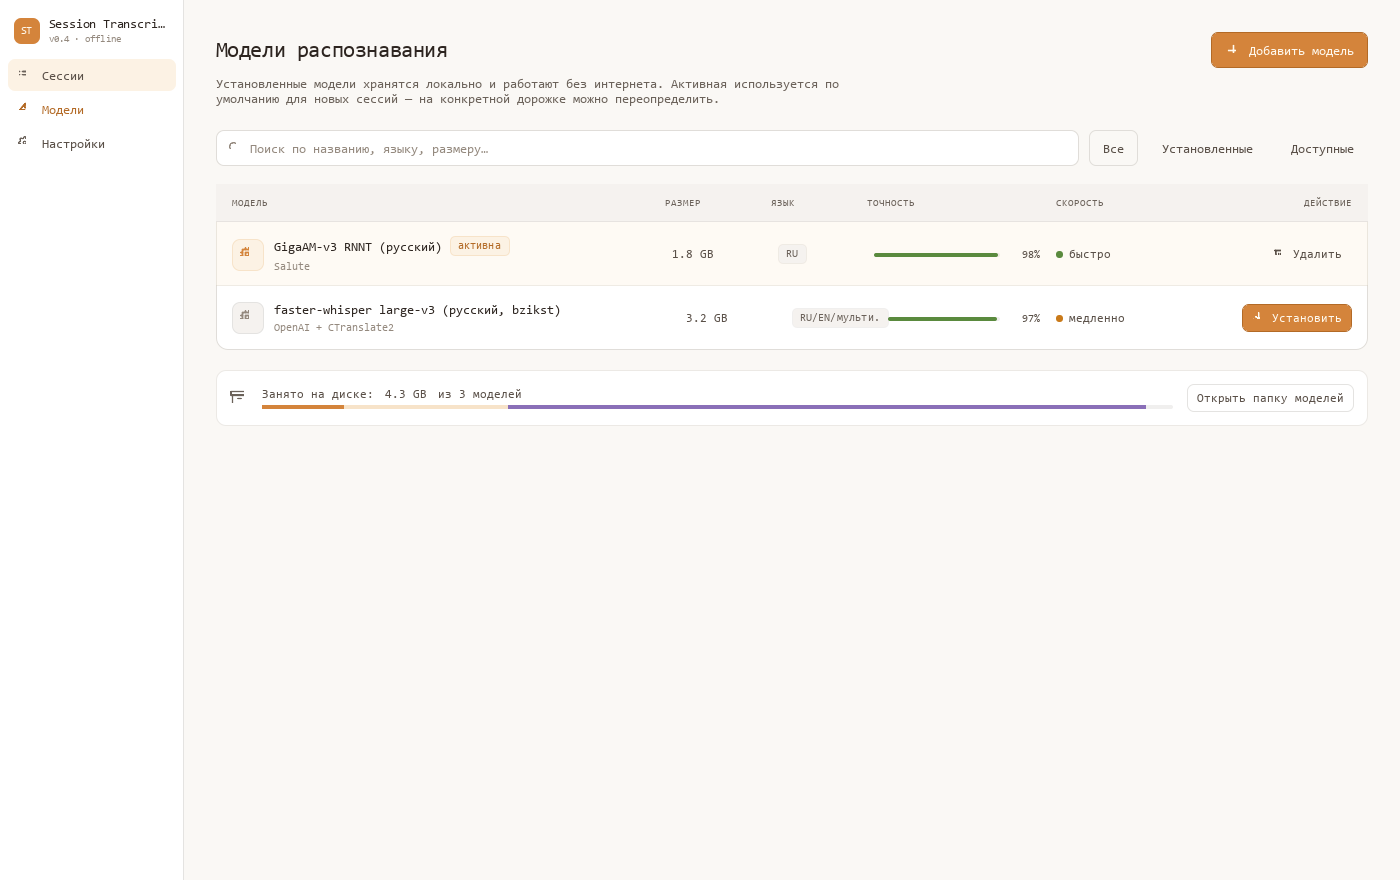
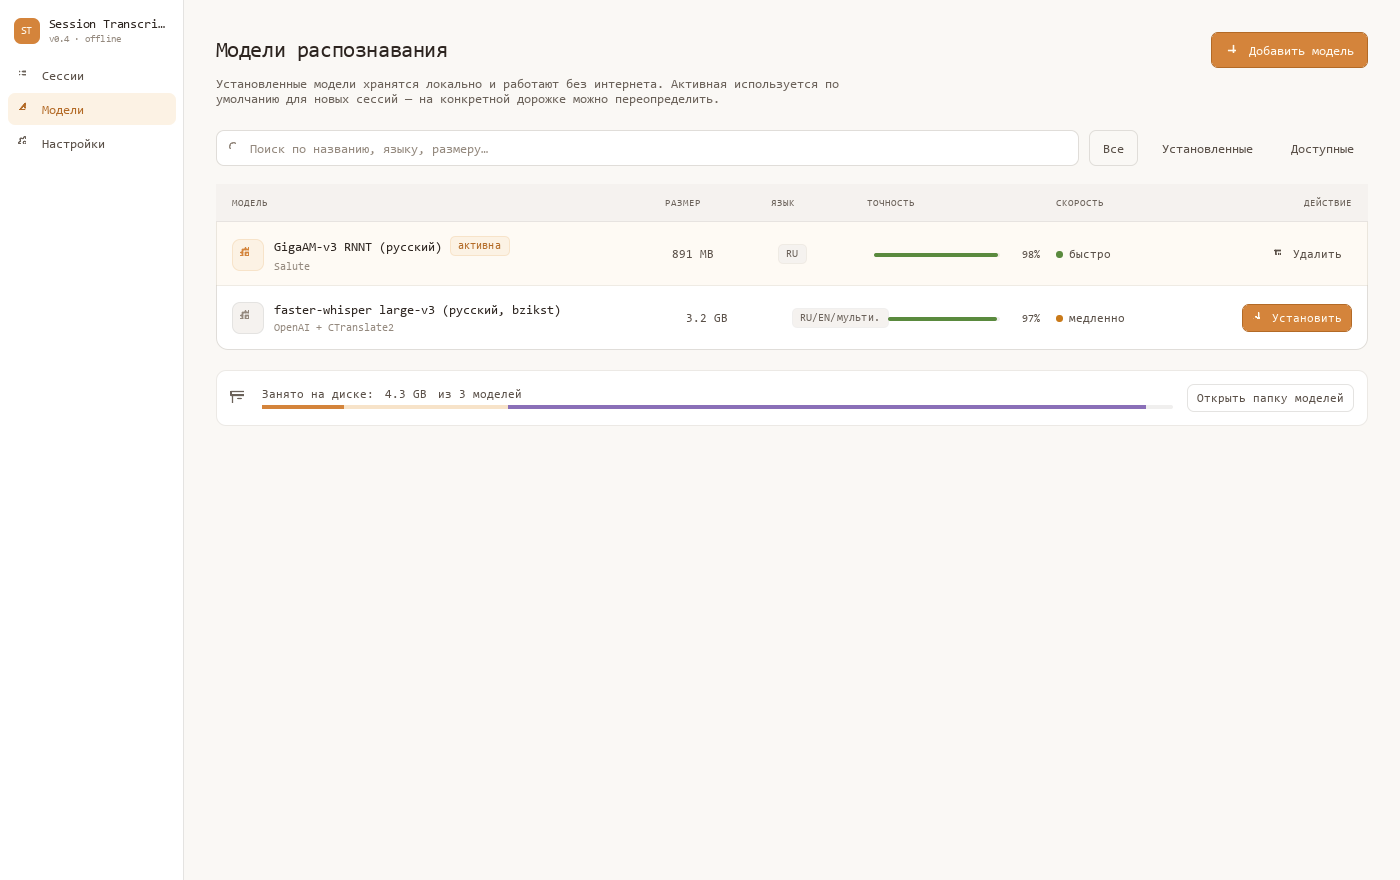
fix(ui): no mock content on launch + install/uninstall feedback
Two user-visible issues resolved:

1. On launch the app landed on the Timeline screen populated with
   prototype mock data (Сессия 14, six named players, fake chat
   logs). User couldn't tell real from mock and asked "is this a
   real app or a mock?". Now:
     * AppModel.screen defaults to "empty"
     * SessionMeta starts with blank title / 0 duration
     * TrackListModel and SourceListModel start with empty _rows
     * SessionMeta.openSession no longer falls back to a 180-min
       placeholder duration — empty folder reads as 0.
   The EmptyScreen is the only thing visible until the user drops
   a session folder. openSession then populates both list models
   via the existing sessionOpened signal → Main.qml flips screen
   to timeline.

2. Clicking "Установить" / "Удалить" kicked off the QThread worker
   but the UI never updated — the row kept showing the same button
   and the user had no feedback. Added transient per-row busy state:
     * ModelRow gains busyKind / busyPct / busyNote properties.
       While non-empty, the action column renders
       "Устанавливается… 47%" with a slim progress bar or
       "Удаляется…" instead of the normal buttons.
     * ModelsScreen owns a busy QtObject (row/kind/pct/note) and
       a Connections block that updates it from
       modelRegistry.installProgress / installFinished / installFailed.
       Click handlers call busy.beginInstall/Uninstall so feedback
[…]

Changed region(s): [[0.0, 0.0614, 0.1229, 0.1534]]

diff --git a/ui/qml/screens/ModelsScreen.qml b/ui/qml/screens/ModelsScreen.qml
@@ -224,6 +224,34 @@ Rectangle {
                             }
                         }
 
+                        // Per-row busy state — keyed by the row index.
+                        // Set from ModelRegistry.installProgress /
+                        // installFinished / installFailed below; read
+                        // by ModelRow delegates via `busyRow` bindings.
+                        QtObject {
+                            id: busy
+                            property int row: -1
+                            property string kind: ""   // "install" | "uninstall"
+                            property int pct: 0
+                            property string note: ""
+
+                            function beginInstall(r)   { row = r; kind = "install";   pct = 0; note = "" }
+                            function beginUninstall(r) { row = r; kind = "uninstall"; pct = 0; note = "" }
+                            function clear()           { row = -1; kind = "";         pct = 0; note = "" }
+                        }
+
+                        Connections {
+                            target: modelRegistry
+                            function onInstallProgress(row, pct, note) {
+                                busy.row = row
+                                busy.kind = busy.kind === "uninstall" ? "uninstall" : "install"
+                                busy.pct = pct
+                                busy.note = note
+                            }
+                            function onInstallFinished(row) { busy.clear() }
+                            function onInstallFailed(row, message) { busy.clear() }
+                        }
+
                         // Rows
                         Repeater {
                             model: modelRegistry
@@ -239,10 +267,19 @@ Rectangle {
                                 installed: model.installed
                                 active: model.active
                                 lastRow: index === modelRegistry.rowCount() - 1
+                                busyKind: busy.row === index ? busy.kind : ""
+                                busyPct:  busy.row === index ? busy.pct  : 0
+                                busyNote: busy.row === index ? busy.note : ""
                                 onRowClicked: drawer.openFor(modelRegistry.entryAt(index))
                                 onActivateClicked: modelRegistry.setActive(index)
-                                onInstallClicked:  modelRegistry.install(index)
-                                onUninstallClicked: modelRegistry.uninstall(index)
+                                onInstallClicked: {
+                                    busy.beginInstall(index)
+                                    modelRegistry.install(index)
+                                }
+                                onUninstallClicked: {
+                                    busy.beginUninstall(index)
+                                    modelRegistry.uninstall(index)
+                                }
                             }
                         }
                     }
@@ -289,14 +326,15 @@ Rectangle {
                                     font.weight: Font.DemiBold
                                 }
                                 Text {
-                                    text: "4.3 GB"
+                                    text: modelRegistry.installedSizeLabel()
                                     color: Theme.ink2
                                     font.family: Theme.fontMono
                                     font.pixelSize: 12
                                     font.weight: Font.DemiBold
                                 }
                                 Text {
-                                    text: " из 3 моделей"
+                                    text: " · " + modelRegistry.installedCount()
+                                          + " из " + modelRegistry.rowCount() + " моделей"
                                     color: Theme.ink2
                                     font.family: Theme.fontSans
                                     font.pixelSize: 12
@@ -305,25 +343,11 @@ Rectangle {
                                 Item { Layout.fillWidth: true }
                             }
 
-                            // Stacked-usage bar: three proportional
-                            // segments drawn side-by-side. Widths come
-                            // from the prototype (9% / 18% / 70%).
-                            Rectangle {
-                                Layout.fillWidth: true
-                                Layout.preferredHeight: 4
-                                radius: 2
-                                color: Theme.borderSoft
-                                clip: true
-
-                                RowLayout {
-                                    anchors.fill: parent
-                                    spacing: 0
-                                    Rectangle { Layout.fillHeight: true; Layout.preferredWidth: parent.width * 0.09; color: Theme.accent }
-                                    Rectangle { Layout.fillHeight: true; Layout.preferredWidth: parent.width * 0.18; color: Theme.accentSoft }
-                                    Rectangle { Layout.fillHeight: true; Layout.preferredWidth: parent.width * 0.70; color: "#8A6FB8" }
-                                    Item      { Layout.fillHeight: true; Layout.fillWidth: true }
-                                }
-                            }
+                            // Per-backend stacked bar removed — the
+                            // 9/18/70 split was hardcoded mock
+                            // proportions. A real stacked view needs
+                            // per-backend size, which is already shown
+                            // in each row's size column.
                         }
 
                         GhostButton {

diff --git a/ui/qml/screens/ModelRow.qml b/ui/qml/screens/ModelRow.qml
@@ -29,6 +29,15 @@ Rectangle {
     property bool active: false
     property bool lastRow: false
 
+    // Transient pipeline state — set from ModelsScreen when the
+    // registry emits installProgress / installFinished / installFailed.
+    // While non-empty, the action column renders a progress label
+    // instead of the normal Install/Activate/Uninstall buttons so the
+    // user has feedback that clicking did something.
+    property string busyKind: ""    // "" | "install" | "uninstall"
+    property int busyPct: 0         // 0..100, only used for install
+    property string busyNote: ""    // free-form ffmpeg/download status
+
     signal rowClicked()
     signal activateClicked()
     signal installClicked()
@@ -155,14 +164,18 @@ Rectangle {
         }
 
         // ── Lang ──────────────────────────────────────────────────
+        // Width widened and Chip anchored left so multi-lang labels
+        // ("RU/EN/мульти.") don't bleed across the accuracy bar.
         Item {
-            Layout.preferredWidth: 80
+            Layout.preferredWidth: 110
             implicitHeight: langChip.implicitHeight
+            clip: true
 
             Chip {
                 id: langChip
                 tone: "neutral"
                 text: root.lang
+                anchors.left: parent.left
                 anchors.verticalCenter: parent.verticalCenter
             }
         }
@@ -226,16 +239,53 @@ Rectangle {
             }
         }
 
-        // ── Action buttons (right-aligned) ────────────────────────
+        // ── Action buttons / busy state (right-aligned) ───────────
         RowLayout {
             Layout.preferredWidth: 170
             spacing: 6
 
             Item { Layout.fillWidth: true }
 
+            // Busy state — replaces the action buttons with a progress
+            // label so the user sees the install / uninstall is in
+            // flight. Earlier versions silently kicked off the worker
+            // thread and the UI looked frozen / no-op.
+            ColumnLayout {
+                visible: root.busyKind.length > 0
+                spacing: 3
+                Layout.fillWidth: false
+
+                Text {
+                    Layout.alignment: Qt.AlignRight
+                    text: root.busyKind === "install"
+                        ? ("Устанавливается… " + root.busyPct + "%")
+                        : "Удаляется…"
+                    color: Theme.accentDeep
+                    font.family: Theme.fontSans
+                    font.pixelSize: 11
+                    font.weight: Font.Medium
+                }
+
+                Rectangle {
+                    visible: root.busyKind === "install"
+                    Layout.preferredWidth: 140
+                    Layout.preferredHeight: 3
+                    radius: 2
+                    color: Theme.borderSoft
+                    Rectangle {
+                        anchors.left: parent.left
+                        anchors.top: parent.top
+                        anchors.bottom: parent.bottom
+                        width: parent.width * (root.busyPct / 100.0)
+                        radius: 2
+                        color: Theme.accent
+                    }
+                }
+            }
+
             // Installed, not active → "Сделать активной"
             SoftButton {
-                visible: root.installed && !root.active
+                visible: root.busyKind.length === 0 && root.installed && !root.active
                 sizeTag: "sm"
                 text: "Сделать активной"
                 onClicked: root.activateClicked()
@@ -245,7 +295,7 @@ Rectangle {
             // "Удалить" (per prototype); inactive installed gets just
             // the icon.
             GhostButton {
-                visible: root.installed && root.active
+                visible: root.busyKind.length === 0 && root.installed && root.active
                 sizeTag: "sm"
                 plain: true
                 iconName: "trash"
@@ -253,7 +303,7 @@ Rectangle {
                 onClicked: root.uninstallClicked()
             }
             GhostButton {
-                visible: root.installed && !root.active
+                visible: root.busyKind.length === 0 && root.installed && !root.active
                 sizeTag: "sm"
                 plain: true
                 iconName: "trash"
@@ -262,7 +312,7 @@ Rectangle {
             }
 
             PrimaryButton {
-                visible: !root.installed
+                visible: root.busyKind.length === 0 && !root.installed
                 sizeTag: "sm"
                 iconName: "download"
                 text: "Установить"

diff --git a/ui/models/session_mock.py b/ui/models/session_mock.py
@@ -73,10 +73,14 @@ class SessionMeta(QObject):
     def __init__(self, parent: Any = None) -> None:
         super().__init__(parent)
         self._session_dir: Path | None = None
-        self._total_min = TOTAL_MIN
-        self._seg_split_min = SEG_SPLIT_MIN
-        self._session_title = "Сессия 14 — Битва на мосту"
-        self._campaign_title = "Storm King's Thunder"
+        # Clean defaults — no mock "Сессия 14" visible before the user
+        # drops a folder. openSession() populates real values; the
+        # EmptyScreen is shown until then (AppModel.screen defaults to
+        # "empty" now).
+        self._total_min = 0
+        self._seg_split_min = 0
+        self._session_title = ""
+        self._campaign_title = ""
 
     @Property(int, notify=totalMinutesChanged)
     def totalMinutes(self) -> int:
@@ -150,13 +154,14 @@ class SessionMeta(QObject):
         audio_paths = _detect_audio(path)
         durations = [probe_duration(p) for p in audio_paths]
         max_seconds = max(durations) if durations else 0.0
-        # Fall back to 180 min when probe fails or folder has no audio,
-        # so the prototype ruler still renders at a reasonable scale.
-        total_min = max(1, int(round(max_seconds / 60.0))) if max_seconds > 0 else 180
+        # No mock fallback duration — if ffprobe can't read a single
+        # track, the ruler renders empty rather than faking 3 h. User
+        # confusion about fake content > graceful degradation here.
+        total_min = max(1, int(round(max_seconds / 60.0))) if max_seconds > 0 else 0
         self._total_min = total_min
-        # Craig splits mid-session on long recordings; for unknown splits
-        # we fake a 2/3-point marker so the strip remains visible.
-        self._seg_split_min = int(total_min * 2 // 3)
+        # Craig splits mid-session on long recordings; for unknown
+        # splits, leave the strip flat.
+        self._seg_split_min = int(total_min * 2 // 3) if total_min > 0 else 0
 
         self.sessionTitleChanged.emit()
         self.campaignTitleChanged.emit()
@@ -202,32 +207,11 @@ class TrackEntry:
     audio_path: Path | None = None
 
 
-def _gen_peaks(seed: int, count: int = 80) -> list[float]:
-    """Deterministic pseudo-peaks — same shape the prototype uses.
-
-    Matches ``genActivity`` in the HTML file so the visual outcome is
-    recognisable when the screens are compared side-by-side.
-    """
-
-    x = seed * 9301 + 49297
-    out: list[float] = []
-    for i in range(count):
-        x = (x * 9301 + 49297) % 233280
-        r = x / 233280
-        base = 0.2 + r * 0.7
-        gap = 0.05 if i in (12, 30, 55) else 1.0
-        out.append(max(0.04, base * gap))
-    return out
-
-
-_TRACK_ROWS: list[TrackEntry] = [
-    TrackEntry("Andrey", "GM",        "Гендальф",    False, "gigaam",  False, _gen_peaks(1)),
-    TrackEntry("Boris",  "Игрок",     "Арагорн",     False, "gigaam",  False, _gen_peaks(2)),
-    TrackEntry("Carol",  "Игрок",     "Лютиэн",      False, "whisper", True,  _gen_peaks(3)),
-    TrackEntry("Dmitry", "Слушатель", "",            True,  "",        False, _gen_peaks(4)),
-    TrackEntry("Eve",    "Игрок",     "Галадриэль",  False, "gigaam",  False, _gen_peaks(5)),
-    TrackEntry("Frank",  "Игрок",     "Боромир",     False, "gigaam",  False, _gen_peaks(6)),
-]
+#: TrackListModel starts empty. Mock players were removed in Phase 11
+#: polish — the app only ever shows real tracks after the user drops
+#: a session folder onto the shell (SessionMeta.openSession populates
+#: both list models through the sessionOpened signal).
+_TRACK_ROWS: list[TrackEntry] = []
 
 
 class TrackListModel(QAbstractListModel):
@@ -553,11 +537,8 @@ class SourceEntry:
     end_pct: float
 
 
-_SOURCE_ROWS: list[SourceEntry] = [
-    SourceEntry("foundry-chat", "часть 1",    "session-14-chat-part1.db", 0.0,           SEG1_END_PCT),
-    SourceEntry("foundry-chat", "часть 2",    "session-14-chat-part2.db", SEG1_END_PCT,  100.0),
-    SourceEntry("combat-log",   "Гоблины",    "combat-goblins.json",      36.0,          60.0),
-]
+#: SourceListModel also starts empty — populated only after folder drop.
+_SOURCE_ROWS: list[SourceEntry] = []
 
 
 class SourceListModel(QAbstractListModel):

diff --git a/ui/models/model_registry.py b/ui/models/model_registry.py
@@ -250,6 +250,22 @@ class ModelRegistry(QAbstractListModel):
         root = default_models_root()
         return str(root) if root.exists() else ""
 
+    @Slot(result=int)
+    def installedCount(self) -> int:
+        """Number of rows that are actually on disk."""
+
+        return sum(1 for r in self._rows if r.installed)
+
+    @Slot(result=str)
+    def installedSizeLabel(self) -> str:
+        """Human-readable total size across installed backends."""
+
+        total = 0
+        for info in list_backends():
+            if is_backend_installed(info.id):
+                total += installed_size_bytes(info.id)
+        return _format_size(total)
+
     # ── Internal ──────────────────────────────────────────────────────
     def _build_rows(self) -> list[ModelEntry]:
         rows: list[ModelEntry] = []

diff --git a/ui/models/app_model.py b/ui/models/app_model.py
@@ -34,10 +34,11 @@ class AppModel(QObject):
 
     def __init__(self, parent: QObject | None = None) -> None:
         super().__init__(parent)
-        # First-launch lands on Timeline to match the prototype's default.
-        # The empty-state screen is reached through the Sessions nav item
-        # when no session is open (handled inside TimelineScreen later).
-        self._screen: str = "timeline"
+        # First-launch lands on the empty state — there is no real
+        # session open yet. Once the user drops a folder and
+        # SessionMeta.openSession runs, Main.qml flips this to
+        # "timeline" (see the DropArea handler).
+        self._screen: str = "empty"
         self._current_session_id: str = ""
         self._phase: str = "idle"
         self._merge_progress: float = 0.0